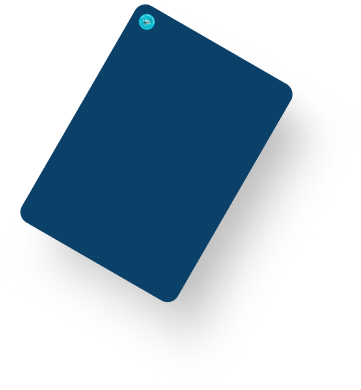
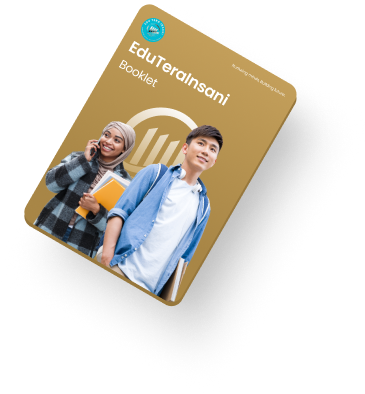
STYLE: Responsive Booklet, Currilum, Learning Section Done Homepage

diff --git a/src/components/Booklet.jsx b/src/components/Booklet.jsx
@@ -5,9 +5,9 @@ import "./Booket.css";
 
 function Booklet() {
   return (
-    <div className="booklet-section bg-background flex items-center py-24 relative">
-      <div className="booklet-container w-base-content mx-auto flex flex-col p-6 items-start gap-4 rounded-3xl relative">
-        <h2 className=" text-primary text-4xl font-semibold w-width-7">
+    <div className="booklet-section bg-background flex items-center lg:py-24 pb-12 relative">
+      <div className="booklet-container lg:w-base-content w-width-sm mx-auto flex flex-col p-6 items-start xs:justify-end gap-4 rounded-3xl relative">
+        <h2 className=" text-primary lg:text-4xl text-xl font-semibold lg:w-width-7 ">
           Pelajari lebih lanjut Edu Tera Insani pada booklet kami
         </h2>
         <ButtonLink
@@ -45,19 +45,36 @@ function Booklet() {
           </svg>
         </ButtonLink>
         <div className="icon-4 absolute">
-        <svg xmlns="http://www.w3.org/2000/svg" width="66" height="67" viewBox="0 0 66 67" fill="none">
-  <g opacity="0.4" clip-path="url(#clip0_1159_1258)">
-    <path d="M65.0914 42.3739L65.0742 42.2975C65.0657 42.2779 65.0552 42.2593 65.043 42.2419C65.024 42.1968 64.9999 42.1541 64.9713 42.1144L48.4246 12.6989C48.3265 12.5263 48.1639 12.3995 47.9725 12.3466C43.6014 11.3459 39.0147 11.9967 35.0944 14.1738C30.6527 16.6723 28.3311 20.7448 27.368 22.857C25.2837 20.0237 19.3096 13.5873 10.7857 18.3821C10.6123 18.4796 10.4848 18.642 10.4312 18.8336C10.3775 19.0251 10.4022 19.2301 10.4997 19.4035L14.1859 25.9566C8.61191 29.4406 6.63663 35.3448 6.55758 35.6173C6.52595 35.7158 6.51505 35.8198 6.52556 35.9227C6.53608 36.0257 6.56777 36.1253 6.61866 36.2154L23.1653 65.6309C23.1653 65.6309 23.1837 65.6636 23.1929 65.6799C23.2021 65.6963 23.2168 65.7224 23.2297 65.7453L23.286 65.7996C23.3006 65.8164 23.3165 65.8319 23.3336 65.846C23.3553 65.8637 23.3786 65.8794 23.4031 65.893C23.4178 65.906 23.4342 65.917 23.4517 65.9259C23.4809 65.9413 23.5113 65.9544 23.5426 65.9651C23.5529 65.9725 23.5646 65.9776 23.5769 65.9802L23.6736 65.999L23.7228 66.01L23.8168 66.0088L23.8688 66.0096L23.9569 65.9902L24.0026 65.9645L24.0746 65.924L24.1867 65.9169L24.239 65.8875L24.2978 65.8544L24.3587 65.7943L24.411 65.7649L24.4598 65.6987L24.4923 65.6417L24.5272 65.5661L24.5452 65.5216C24.5528 65.4356 26.5562 59.4209 32.1125 56.2954C35.7035 54.3305 39.8819 53.7244 43.8832 54.5877C44.07 54.6352 44.2679 54.609 44.4358 54.5146C44.6038 54.4201 44.7289 54.2646 44.7853 54.0803C44.8219 54.0382 46.8202 48.0221 52.3765 44.8966C55.9659 42.9269 60.1461 42.3204 64.1472 43.1889L64.1668 43.1779C64.2039 43.1876 64.2419 43.1936 64.2802 43.1959L64.3542 43.1973L64.4295 43.1936C64.4567 43.1901 64.4834 43.1837 64.5092 43.1746L64.5615 43.1452C64.6554 43.1153 64.7422 43.0665 64.8164 43.0018L64.872 42.9705L64.9263 42.9142L64.97 42.8465C64.9841 42.8283 64.9961 42.8086 65.0058 42.7877C65.0522 42.7009 65.079 42.6051 65.0844 42.5068C65.0867 42.4851 65.0873 42.4631 65.0863 42.4413L65.0914 42.3739ZM12.184 19.3381C21.1418 14.9015 26.6492 24.4015 26.8919 24.8329L40.2119 48.5124C37.3183 46.3667 33.1454 44.8762 28.0044 47.4626L12.184 19.3381ZM23.7115 63.5424L8.09516 35.7807C8.55865 34.5777 10.5437 30.0448 14.925 27.2705L27.0464 48.819C27.1439 48.9923 27.3063 49.1199 27.4978 49.1735C27.6894 49.2271 27.8944 49.2025 28.0677 49.105C35.3464 45.0106 40.454 50.136 42.4751 52.8112C38.6389 52.352 34.7556 53.1137 31.3771 54.988C27.0268 57.4351 24.7065 61.395 23.7115 63.5424ZM43.9755 52.1436L28.3592 24.3819C28.8435 23.1242 30.9959 18.2003 35.8298 15.4811C39.331 13.5662 43.3923 12.938 47.3085 13.7054L62.9064 41.4344C59.0175 40.9307 55.0695 41.6859 51.6411 43.5892C47.2908 46.0363 44.9705 49.9962 43.9755 52.1436Z" fill="#A88646"/>
-    <path d="M49.1084 26.8484L36.9233 26.6034C36.7921 26.6019 36.6627 26.6349 36.5482 26.6991C36.4337 26.7633 36.3381 26.8564 36.2708 26.9692C36.2036 27.0819 36.1671 27.2103 36.165 27.3416C36.163 27.4728 36.1954 27.6023 36.2591 27.7171L42.3262 38.5028C42.3905 38.6182 42.4842 38.7146 42.5978 38.7822C42.7113 38.8498 42.8407 38.8862 42.9729 38.8877C43.1042 38.8871 43.2331 38.853 43.3475 38.7888C43.462 38.7228 43.557 38.6278 43.6229 38.5134L49.7408 27.9727C49.8058 27.86 49.8403 27.7323 49.841 27.6021C49.8417 27.472 49.8085 27.3439 49.7447 27.2305C49.6809 27.1171 49.5887 27.0222 49.4771 26.9552C49.3656 26.8882 49.2385 26.8514 49.1084 26.8484ZM42.99 36.6235L38.2099 28.1257L47.81 28.3188L42.99 36.6235Z" fill="#A88646"/>
-  </g>
-  <defs>
-    <clipPath id="clip0_1159_1258">
-      <rect width="48" height="48" fill="white" transform="translate(0 24.4492) rotate(-29.3584)"/>
-    </clipPath>
-  </defs>
-</svg>
+          <svg
+            xmlns="http://www.w3.org/2000/svg"
+            width="66"
+            height="67"
+            viewBox="0 0 66 67"
+            fill="none"
+          >
+            <g opacity="0.4" clipPath="url(#clip0_1159_1258)">
+              <path
+                d="M65.0914 42.3739L65.0742 42.2975C65.0657 42.2779 65.0552 42.2593 65.043 42.2419C65.024 42.1968 64.9999 42.1541 64.9713 42.1144L48.4246 12.6989C48.3265 12.5263 48.1639 12.3995 47.9725 12.3466C43.6014 11.3459 39.0147 11.9967 35.0944 14.1738C30.6527 16.6723 28.3311 20.7448 27.368 22.857C25.2837 20.0237 19.3096 13.5873 10.7857 18.3821C10.6123 18.4796 10.4848 18.642 10.4312 18.8336C10.3775 19.0251 10.4022 19.2301 10.4997 19.4035L14.1859 25.9566C8.61191 29.4406 6.63663 35.3448 6.55758 35.6173C6.52595 35.7158 6.51505 35.8198 6.52556 35.9227C6.53608 36.0257 6.56777 36.1253 6.61866 36.2154L23.1653 65.6309C23.1653 65.6309 23.1837 65.6636 23.1929 65.6799C23.2021 65.6963 23.2168 65.7224 23.2297 65.7453L23.286 65.7996C23.3006 65.8164 23.3165 65.8319 23.3336 65.846C23.3553 65.8637 23.3786 65.8794 23.4031 65.893C23.4178 65.906 23.4342 65.917 23.4517 65.9259C23.4809 65.9413 23.5113 65.9544 23.5426 65.9651C23.5529 65.9725 23.5646 65.9776 23.5769 65.9802L23.6736 65.999L23.7228 66.01L23.8168 66.0088L23.8688 66.0096L23.9569 65.9902L24.0026 65.9645L24.0746 65.924L24.1867 65.9169L24.239 65.8875L24.2978 65.8544L24.3587 65.7943L24.411 65.7649L24.4598 65.6987L24.4923 65.6417L24.5272 65.5661L24.5452 65.5216C24.5528 65.4356 26.5562 59.4209 32.1125 56.2954C35.7035 54.3305 39.8819 53.7244 43.8832 54.5877C44.07 54.6352 44.2679 54.609 44.4358 54.5146C44.6038 54.4201 44.7289 54.2646 44.7853 54.0803C44.8219 54.0382 46.8202 48.0221 52.3765 44.8966C55.9659 42.9269 60.1461 42.3204 64.1472 43.1889L64.1668 43.1779C64.2039 43.1876 64.2419 43.1936 64.2802 43.1959L64.3542 43.1973L64.4295 43.1936C64.4567 43.1901 64.4834 43.1837 64.5092 43.1746L64.5615 43.1452C64.6554 43.1153 64.7422 43.0665 64.8164 43.0018L64.872 42.9705L64.9263 42.9142L64.97 42.8465C64.9841 42.8283 64.9961 42.8086 65.0058 42.7877C65.0522 42.7009 65.079 42.6051 65.0844 42.5068C65.0867 42.4851 65.0873 42.4631 65.0863 42.4413L65.0914 42.3739ZM12.184 19.3381C21.1418 14.9015 26.6492 24.4015 26.8919 24.8329L40.2119 48.5124C37.3183 46.3667 33.1454 44.8762 28.0044 47.4626L12.184 19.3381ZM23.7115 63.5424L8.09516 35.7807C8.55865 34.5777 10.5437 30.0448 14.925 27.2705L27.0464 48.819C27.1439 48.9923 27.3063 49.1199 27.4978 49.1735C27.6894 49.2271 27.8944 49.2025 28.0677 49.105C35.3464 45.0106 40.454 50.136 42.4751 52.8112C38.6389 52.352 34.7556 53.1137 31.3771 54.988C27.0268 57.4351 24.7065 61.395 23.7115 63.5424ZM43.9755 52.1436L28.3592 24.3819C28.8435 23.1242 30.9959 18.2003 35.8298 15.4811C39.331 13.5662 43.3923 12.938 47.3085 13.7054L62.9064 41.4344C59.0175 40.9307 55.0695 41.6859 51.6411 43.5892C47.2908 46.0363 44.9705 49.9962 43.9755 52.1436Z"
+                fill="#A88646"
+              />
+              <path
+                d="M49.1084 26.8484L36.9233 26.6034C36.7921 26.6019 36.6627 26.6349 36.5482 26.6991C36.4337 26.7633 36.3381 26.8564 36.2708 26.9692C36.2036 27.0819 36.1671 27.2103 36.165 27.3416C36.163 27.4728 36.1954 27.6023 36.2591 27.7171L42.3262 38.5028C42.3905 38.6182 42.4842 38.7146 42.5978 38.7822C42.7113 38.8498 42.8407 38.8862 42.9729 38.8877C43.1042 38.8871 43.2331 38.853 43.3475 38.7888C43.462 38.7228 43.557 38.6278 43.6229 38.5134L49.7408 27.9727C49.8058 27.86 49.8403 27.7323 49.841 27.6021C49.8417 27.472 49.8085 27.3439 49.7447 27.2305C49.6809 27.1171 49.5887 27.0222 49.4771 26.9552C49.3656 26.8882 49.2385 26.8514 49.1084 26.8484ZM42.99 36.6235L38.2099 28.1257L47.81 28.3188L42.99 36.6235Z"
+                fill="#A88646"
+              />
+            </g>
+            <defs>
+              <clipPath id="clip0_1159_1258">
+                <rect
+                  width="48"
+                  height="48"
+                  fill="white"
+                  transform="translate(0 24.4492) rotate(-29.3584)"
+                />
+              </clipPath>
+            </defs>
+          </svg>
         </div>
-        <div className="icon-5 absolute">
+        <div className="icon-5 absolute xs:hidden">
           <svg
             xmlns="http://www.w3.org/2000/svg"
             width="60"
@@ -107,7 +124,7 @@ function Booklet() {
             </defs>
           </svg>
         </div>
-        <div className="icon-6 absolute">
+        <div className="icon-6 absolute xs:hidden">
           <svg
             xmlns="http://www.w3.org/2000/svg"
             width="59"

diff --git a/src/components/LearningPath.jsx b/src/components/LearningPath.jsx
@@ -2,7 +2,7 @@ import React from "react";
 import Learning from "/images/learning-path.png";
 import { useLocation } from "react-router-dom";
 
-function LearningPatch() {
+function LearningPath() {
   const location = useLocation();
   const path = location.pathname;
   let backGround = "";
@@ -14,10 +14,12 @@ function LearningPatch() {
   }
 
   return (
-    <div className={`learning-section flex py-24 items-center ${backGround}`}>
-      <div className="learning-container flex items-center gap-6 mx-auto">
-        <div className="learning-content flex flex-col items-center gap-4 w-width-4">
-          <h2 className="text-primary text-4xl font-semibold ">
+    <div
+      className={`learning-section flex lg:py-24 py-12 items-center ${backGround}`}
+    >
+      <div className="learning-container flex lg:flex-row flex-col-reverse lg:items-center items-start gap-6 mx-auto xs:w-width-4">
+        <div className="learning-content flex flex-col lg:items-center items-start gap-4 w-width-4">
+          <h2 className="text-primary text-2xl lg:text-4xl font-semibold ">
             Bagaimana Cara Belajarnya?
           </h2>
           <p className="text-base text-neutral-2">
@@ -32,4 +34,4 @@ function LearningPatch() {
   );
 }
 
-export default LearningPatch;
+export default LearningPath;

diff --git a/src/pages/Curriculum.jsx b/src/pages/Curriculum.jsx
@@ -1,19 +1,19 @@
 import React from "react";
 import Booklet from "../components/Booklet";
-import LearningPatch from "../components/LearningPatch";
+import LearningPath from "../components/LearningPath";
 import CurriculumHero from "../components/CurriculumHero";
 import CurriculumWhat from "../components/CurriculumWhat";
-import RemoteLearning from "../components/RemoteLearningSection"
-import Prinsip from "../components/PrinsipSection"
+import RemoteLearning from "../components/RemoteLearningSection";
+import Prinsip from "../components/PrinsipSection";
 
 function Curriculum() {
   return (
     <div className="curriculum">
       <CurriculumHero />
       <CurriculumWhat />
-      <RemoteLearning/>
-      <LearningPatch />
-      <Prinsip/>
+      <RemoteLearning />
+      <LearningPath />
+      <Prinsip />
       <Booklet />
     </div>
   );

diff --git a/src/pages/Home.jsx b/src/pages/Home.jsx
@@ -4,7 +4,7 @@ import WhyEdutera from "../components/WhyEdutera";
 import Digital from "../components/Digital";
 import OurProgram from "../components/OurProgram";
 import HomeCurriculum from "../components/HomeCurriculum";
-import LearningPatch from "../components/LearningPatch";
+import LearningPath from "../components/LearningPath";
 import Teacher from "../components/Teacher";
 import Booklet from "../components/Booklet";
 
@@ -24,7 +24,7 @@ function Home() {
       <Digital />
       <OurProgram />
       <HomeCurriculum />
-      <LearningPatch />
+      <LearningPath />
       <div ref={teacherRef}>
         <Teacher />
       </div>

diff --git a/src/components/Booket.css b/src/components/Booket.css
@@ -1,3 +1,7 @@
+svg {
+  max-width: 100%;
+}
+
 .booklet-container {
   background: linear-gradient(
       92deg,
@@ -30,4 +34,33 @@
 .booklet-container .icon-7 {
   right: 82.431px;
   bottom: 6.084px;
+}
+
+@media (max-width: 639px) {
+  .booklet-section {
+    padding-top: 74px;
+  }
+
+  .booklet-container {
+    height: 260px;
+  }
+
+  .book {
+    width: 71%;
+    top: -115px;
+    right: 45px;
+  }
+
+  .booklet-container .icon-4 {
+    left: 25px;
+    top: 12px;
+    width: 50px;
+  }
+
+  .booklet-container .icon-7 {
+    right: 59.41px;
+
+    top: 23.536px;
+    width: 55px;
+  }
 }

diff --git a/tailwind.config.js b/tailwind.config.js
@@ -22,7 +22,7 @@ export default {
         "width-3.1": "339px",
         "width-3.2": "342px",
         "width-4": "368px",
-        "width-sm": "380px",
+        "width-sm": "390px",
         "width-4.1": "466px",
         "width-5": "468px",
         "width-6": "564px",
